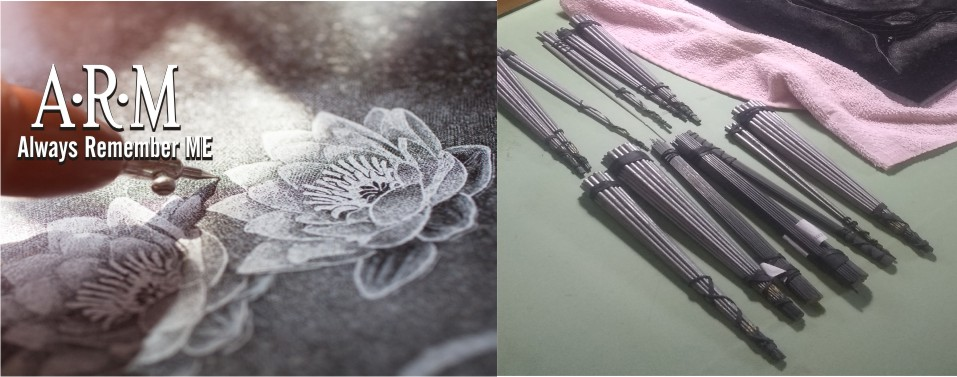
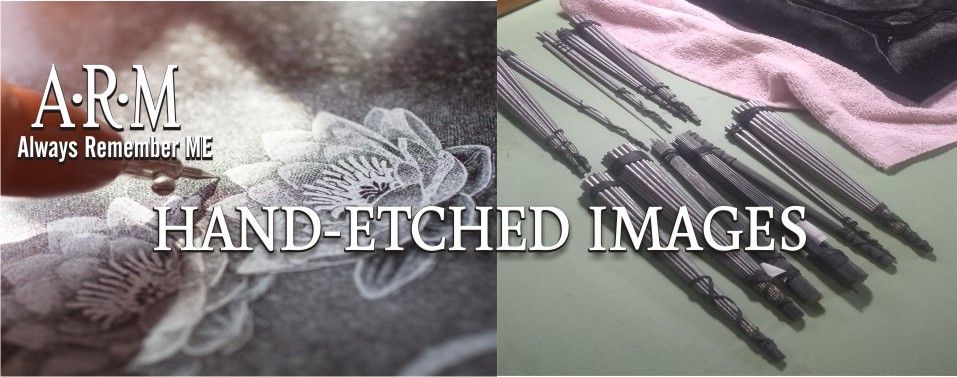
MAY16a

Changed region(s): [[0.1515, 0.5252, 0.8485, 0.7003]]

diff --git a/css/index-style.css b/css/index-style.css
@@ -51,7 +51,7 @@ body {
 } 
 
 
-.tagline {
+/*.tagline {
     animation: tagline 3s linear;
     color: rgb(224, 75, 82);
     font-family: 'Poppins', sans-serif;
@@ -63,7 +63,7 @@ body {
     top: 450px;
     width: 100%;
     word-spacing: 10px;
-}
+}  */
 
 @media (max-width:600px) {
      .tagline {
@@ -90,6 +90,15 @@ body {
 
 }
 
+.img01 {
+    
+    margin: 0;
+    padding: 0;
+    position: relative;
+    width: 100%;
+    z-index: 40;
+}
+
 
 img {
     border-radius: 2rem;
@@ -100,14 +109,6 @@ img {
     top: 0;
 }
 
-.img01 {
-    
-    margin: 0;
-    padding: 0;
-    position: relative;
-    width: 100%;
-    z-index: 40;
-}
 
 nav,
 nav a,

diff --git a/css/etching-style.css b/css/etching-style.css
@@ -78,7 +78,7 @@ nav a:active {
 
 
 
-.title {
+/*.title {
     color:white;
     font-family: Cambria, Cochin, Georgia, Times, 'Times New Roman', serif;
     font-size: calc(3rem + 1vw);
@@ -88,7 +88,7 @@ nav a:active {
     top: 130px;
     width: 100%;
     word-spacing: 3px;
-}
+} 
 
 @media (max-width:600px) {
     .title {
@@ -104,7 +104,7 @@ nav a:active {
          top: 10px;
     }
 
-}
+} */
 
 
 

diff --git a/fullcolor.html b/fullcolor.html
@@ -32,10 +32,10 @@
     
         <div class="img01">
             <img src="/img/arm-banner3.jpg" alt="top header banner" class="p0">
-                <div class="title">
+               <!-- <div class="title">
                     <h1 class="title">FULL-COLOR PHOTO<br>
                     PHOTO COLLAGE MARKERS</h1>
-                </div>
+                </div> -->
         </div>
 
 

diff --git a/etching.html b/etching.html
@@ -31,9 +31,9 @@
 
         <img src="/img/arm-banner5.jpg" alt="banner5">
 
-        <div class="title">
-            <h1 class="title">HAND ETCHING & ARTWORK</h1>
-        </div>
+       <!-- <div class="title">
+             <h1 class="title">HAND ETCHING & ARTWORK</h1>
+        </div> -->
     
     </div>
 

diff --git a/index.html b/index.html
@@ -38,9 +38,9 @@
 
     <div class="img01">
         <img src="/img/arm-banner2.jpg" alt="header" class="p0">
-            <div class="tagline">
+            <!--<div class="tagline">
                 We will help you to Remember.
-            </div>
+            </div> -->
     </div>
 
 

diff --git a/css/fullcolor-style.css b/css/fullcolor-style.css
@@ -90,10 +90,10 @@ nav a:active {
 
 @media (max-width:320px) {
 
-    .title {
+   /* .title {
         font-size: calc(.2rem + 1vw);
         top: 10px;
-    }
+    } */
 
     .ul1 {
         padding-left: 300px;
